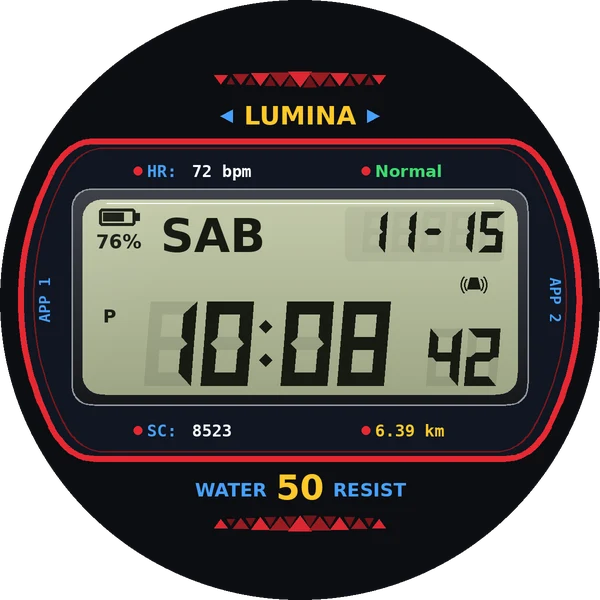
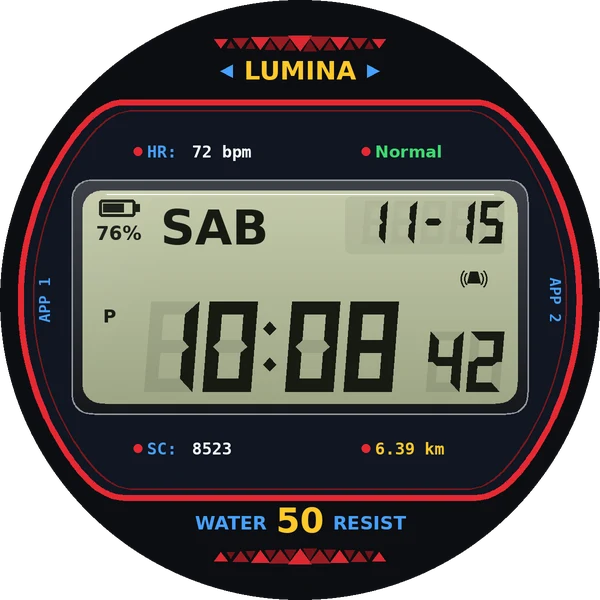
Lumina: panel más alto con costados curvos más largos; nombre arriba y WATER 50 RESIST abajo; marca y versión en Personalizar
Claude-Session: https://claude.ai/code/session_01RTdv2VrACuR4VFWJLA57hx

diff --git a/android/esferas-de-reloj/lumina/src/main/java/cl/carlospnauto/esfera/FaceService.kt b/android/esferas-de-reloj/lumina/src/main/java/cl/carlospnauto/esfera/FaceService.kt
@@ -101,10 +101,10 @@ object Config : FaceConfig {
     override val spots = listOf(
         Spot(-0.765f, 0f, Action.MEDIA, "APP 1 (izquierda)", hit = 0.12f),
         Spot(0.765f, 0f, Action.MUSIC, "APP 2 (derecha)", hit = 0.12f),
-        Spot(0f, -0.64f, Action.ALARMS, "Nombre de arriba", hit = 0.12f),
-        Spot(0f, 0.68f, Action.TIMER, "WATER 50 RESIST", hit = 0.12f),
-        Spot(-0.40f, -0.43f, Action.SETTINGS, "Ritmo cardíaco (HR)", hit = 0.10f),
-        Spot(0.40f, 0.43f, Action.BATTERY, "Distancia", hit = 0.10f),
+        Spot(0f, -0.75f, Action.ALARMS, "Nombre de arriba", hit = 0.12f),
+        Spot(0f, 0.78f, Action.TIMER, "WATER 50 RESIST", hit = 0.12f),
+        Spot(-0.40f, -0.49f, Action.SETTINGS, "Ritmo cardíaco (HR)", hit = 0.10f),
+        Spot(0.40f, 0.50f, Action.BATTERY, "Distancia", hit = 0.10f),
     )
     override val choices = listOf(SCREEN, THEME, SECONDS, DISTANCE, AMB, PhoneNow.CHOICE)
     override val heartRate = true
@@ -116,11 +116,11 @@ class FaceService : WatchFaceService() {
         val factory = CanvasComplicationFactory { watchState, listener -> CanvasComplicationDrawable(ComplicationDrawable(this), watchState, listener) }
         val types = listOf(ComplicationType.SHORT_TEXT, ComplicationType.RANGED_VALUE)
         val slots = listOf(
-            ComplicationSlot.createRoundRectComplicationSlotBuilder(HEART, factory, types, DefaultComplicationDataSourcePolicy(), ComplicationSlotBounds(RectF(0.20f, 0.25f, 0.45f, 0.32f))).build(),
+            ComplicationSlot.createRoundRectComplicationSlotBuilder(HEART, factory, types, DefaultComplicationDataSourcePolicy(), ComplicationSlotBounds(RectF(0.20f, 0.22f, 0.45f, 0.29f))).build(),
             ComplicationSlot.createRoundRectComplicationSlotBuilder(
                 STEPS, factory, types,
                 DefaultComplicationDataSourcePolicy(SystemDataSources.DATA_SOURCE_STEP_COUNT, ComplicationType.SHORT_TEXT),
-                ComplicationSlotBounds(RectF(0.20f, 0.68f, 0.45f, 0.75f)),
+                ComplicationSlotBounds(RectF(0.20f, 0.71f, 0.45f, 0.78f)),
             ).build(),
         )
         return ComplicationSlotsManager(slots, currentUserStyleRepository)
@@ -230,7 +230,7 @@ class LuminaRenderer(
         val r = min(b.width(), b.height()) / 2f
         val fx = (x - b.exactCenterX()) / r
         val fy = (y - b.exactCenterY()) / r
-        return fx in -0.76f..0.76f && fy in -0.37f..0.35f
+        return fx in -0.76f..0.76f && fy in -0.40f..0.38f
     }
 
     private fun a(c: Int, alpha: Int) = Color.argb(alpha, Color.red(c), Color.green(c), Color.blue(c))
@@ -290,8 +290,8 @@ class LuminaRenderer(
         fun X(v: Float) = cx + v * rr
         fun Y(v: Float) = cy + v * rr
         val side = 0.93f
-        val edge = 0.53f
-        val sy = 0.42f
+        val edge = 0.66f
+        val sy = 0.52f
         val ang = Math.toDegrees(kotlin.math.asin((sy / side).toDouble())).toFloat()
         val sx = kotlin.math.sqrt(side * side - sy * sy)
         // Esquina: la recta y la tangente del círculo se cruzan en (cxk, edge)
@@ -363,7 +363,7 @@ class LuminaRenderer(
         canvas.drawColor(Color.BLACK)
 
         // Bisel (marco) de la pantalla y, adentro, la pantalla bajo el cristal
-        val bezel = RectF(X(-0.76f), Y(-0.37f), X(0.76f), Y(0.35f))
+        val bezel = RectF(X(-0.76f), Y(-0.40f), X(0.76f), Y(0.38f))
         val lcd = RectF(bezel.left + r * 0.035f, bezel.top + r * 0.035f, bezel.right - r * 0.035f, bezel.bottom - r * 0.035f)
         val ink = if (simple) Color.rgb(170, 170, 170) else sc.ink
         val ghost = if (simple) 0 else a(sc.ink, if (sc.dark) 30 else 26)
@@ -375,16 +375,16 @@ class LuminaRenderer(
             fill.shader = null
 
             // Triángulos y nombre arriba (rectos, como en la foto)
-            chevrons(canvas, cx, Y(-0.735f), r, th.chevron, top = true)
+            chevrons(canvas, cx, Y(-0.855f), r, th.chevron, top = true)
             val brand = "LUMINA"
             val bs = r * 0.085f
             val bw = width(brand, bs, bold)
-            write(canvas, brand, cx, Y(-0.585f), bs, th.brand, bold, Paint.Align.CENTER, -0.2f)
+            write(canvas, brand, cx, Y(-0.735f), bs, th.brand, bold, Paint.Align.CENTER, -0.2f)
             fill.color = th.label
             for (side in listOf(-1f, 1f)) {
                 val ax = cx + side * (bw / 2 + r * 0.05f)
                 path.reset()
-                path.moveTo(ax + side * r * 0.03f, Y(-0.613f)); path.lineTo(ax - side * r * 0.012f, Y(-0.635f)); path.lineTo(ax - side * r * 0.012f, Y(-0.591f))
+                path.moveTo(ax + side * r * 0.03f, Y(-0.763f)); path.lineTo(ax - side * r * 0.012f, Y(-0.785f)); path.lineTo(ax - side * r * 0.012f, Y(-0.741f))
                 path.close()
                 canvas.drawPath(path, fill)
             }
@@ -415,9 +415,9 @@ class LuminaRenderer(
             val hr = hrTxt?.toIntOrNull() ?: 0
             val ls = r * 0.056f
             fill.color = th.frame
-            canvas.drawCircle(X(-0.54f), Y(-0.43f), r * 0.014f, fill)
-            write(canvas, "HR:", X(-0.51f), Y(-0.41f), ls, th.label, mono, Paint.Align.LEFT)
-            write(canvas, "${hrTxt ?: "--"} bpm", X(-0.36f), Y(-0.41f), ls, th.value, mono, Paint.Align.LEFT)
+            canvas.drawCircle(X(-0.54f), Y(-0.495f), r * 0.014f, fill)
+            write(canvas, "HR:", X(-0.51f), Y(-0.475f), ls, th.label, mono, Paint.Align.LEFT)
+            write(canvas, "${hrTxt ?: "--"} bpm", X(-0.36f), Y(-0.475f), ls, th.value, mono, Paint.Align.LEFT)
             val status = when {
                 hr <= 0 -> "--"
                 hr < 60 -> "Bajo"
@@ -425,26 +425,26 @@ class LuminaRenderer(
                 else -> "Alto"
             }
             val stColor = when (status) { "Normal" -> Color.rgb(60, 220, 110); "Bajo" -> Color.rgb(90, 180, 255); "Alto" -> Color.rgb(255, 90, 80); else -> Color.GRAY }
-            canvas.drawCircle(X(0.22f), Y(-0.43f), r * 0.014f, fill)
-            write(canvas, status, X(0.25f), Y(-0.41f), ls, stColor, bold, Paint.Align.LEFT)
+            canvas.drawCircle(X(0.22f), Y(-0.495f), r * 0.014f, fill)
+            write(canvas, status, X(0.25f), Y(-0.475f), ls, stColor, bold, Paint.Align.LEFT)
 
             // Pasos y distancia
             val stepsTxt = complications.textOf(STEPS, context.resources)?.filter { it.isDigit() } ?: ""
             val steps = stepsTxt.toLongOrNull() ?: 0L
             val km = steps * 0.00075
             val dist = if (Choices.value(context, DISTANCE) == 1) "%.2f mi".format(loc, km * 0.621371) else "%.2f km".format(loc, km)
-            canvas.drawCircle(X(-0.54f), Y(0.435f), r * 0.014f, fill)
-            write(canvas, "SC:", X(-0.51f), Y(0.455f), ls, th.label, mono, Paint.Align.LEFT)
-            write(canvas, stepsTxt.ifEmpty { "--" }, X(-0.36f), Y(0.455f), ls, th.value, mono, Paint.Align.LEFT)
-            canvas.drawCircle(X(0.22f), Y(0.435f), r * 0.014f, fill)
-            write(canvas, dist, X(0.25f), Y(0.455f), ls, th.brand, mono, Paint.Align.LEFT)
+            canvas.drawCircle(X(-0.54f), Y(0.495f), r * 0.014f, fill)
+            write(canvas, "SC:", X(-0.51f), Y(0.515f), ls, th.label, mono, Paint.Align.LEFT)
+            write(canvas, stepsTxt.ifEmpty { "--" }, X(-0.36f), Y(0.515f), ls, th.value, mono, Paint.Align.LEFT)
+            canvas.drawCircle(X(0.22f), Y(0.495f), r * 0.014f, fill)
+            write(canvas, dist, X(0.25f), Y(0.515f), ls, th.brand, mono, Paint.Align.LEFT)
 
             // WATER 50 RESIST y triángulos abajo (rectos)
             val ws = r * 0.062f
-            write(canvas, "WATER", X(-0.11f), Y(0.655f), ws, th.label, bold, Paint.Align.RIGHT, -0.2f)
-            write(canvas, "50", cx, Y(0.665f), r * 0.115f, th.brand, black, Paint.Align.CENTER, -0.3f)
-            write(canvas, "RESIST", X(0.11f), Y(0.655f), ws, th.label, bold, Paint.Align.LEFT, -0.2f)
-            chevrons(canvas, cx, Y(0.745f), r, th.chevron, top = false)
+            write(canvas, "WATER", X(-0.11f), Y(0.765f), ws, th.label, bold, Paint.Align.RIGHT, -0.2f)
+            write(canvas, "50", cx, Y(0.775f), r * 0.115f, th.brand, black, Paint.Align.CENTER, -0.3f)
+            write(canvas, "RESIST", X(0.11f), Y(0.765f), ws, th.label, bold, Paint.Align.LEFT, -0.2f)
+            chevrons(canvas, cx, Y(0.855f), r, th.chevron, top = false)
 
             // Bisel: marco metálico oscuro alrededor de la pantalla, con un filo de luz arriba
             screenPath(bezel, r)
@@ -485,36 +485,36 @@ class LuminaRenderer(
         val pct = battery?.getIntProperty(BatteryManager.BATTERY_PROPERTY_CAPACITY) ?: -1
         if (!simple) {
             val bx = X(-0.67f)
-            val by = Y(-0.305f)
+            val by = Y(-0.335f)
             stroke.color = ink
             stroke.strokeWidth = r * 0.011f
             canvas.drawRoundRect(RectF(bx, by, bx + r * 0.12f, by + r * 0.056f), r * 0.01f, r * 0.01f, stroke)
             fill.color = ink
             canvas.drawRect(bx + r * 0.12f, by + r * 0.016f, bx + r * 0.135f, by + r * 0.04f, fill)
             if (pct >= 0) canvas.drawRect(bx + r * 0.014f, by + r * 0.014f, bx + r * 0.014f + r * 0.092f * pct / 100f, by + r * 0.042f, fill)
-            write(canvas, if (pct >= 0) "$pct%" else "--", bx + r * 0.065f, Y(-0.172f), r * 0.064f, ink, bold, Paint.Align.CENTER)
+            write(canvas, if (pct >= 0) "$pct%" else "--", bx + r * 0.065f, Y(-0.20f), r * 0.064f, ink, bold, Paint.Align.CENTER)
         }
 
         // Día de la semana grande
         val dow = t.dayOfWeek.getDisplayName(TextStyle.SHORT, loc).replace(".", "").take(3).uppercase(loc)
-        write(canvas, dow, X(-0.465f), Y(-0.16f), r * 0.155f, ink, black, Paint.Align.LEFT)
+        write(canvas, dow, X(-0.465f), Y(-0.185f), r * 0.16f, ink, black, Paint.Align.LEFT)
 
         // Fecha (mes-día) en su cajita, con «8» apagados
         if (!simple) {
             fill.color = a(sc.ink, if (sc.dark) 22 else 16)
-            canvas.drawRoundRect(RectF(X(0.15f), Y(-0.31f), X(0.68f), Y(-0.13f)), r * 0.02f, r * 0.02f, fill)
+            canvas.drawRoundRect(RectF(X(0.15f), Y(-0.345f), X(0.68f), Y(-0.155f)), r * 0.02f, r * 0.02f, fill)
         }
-        Lcd.row(canvas, "${t.monthValue}-${t.dayOfMonth}", X(0.67f), Y(-0.295f), r * 0.075f, r * 0.135f, r * 0.022f, 5, ink, ghost)
+        Lcd.row(canvas, "${t.monthValue}-${t.dayOfMonth}", X(0.67f), Y(-0.33f), r * 0.075f, r * 0.14f, r * 0.022f, 5, ink, ghost)
 
         // Alarma puesta: campana con ondas
-        if (!simple) bell(canvas, X(0.58f), Y(-0.05f), r * 0.04f, if (Indicators.alarm(context)) ink else ghost)
+        if (!simple) bell(canvas, X(0.58f), Y(-0.07f), r * 0.04f, if (Indicators.alarm(context)) ink else ghost)
 
         // Hora grande, segundos e indicador P / 24
         val is24 = DateFormat.is24HourFormat(context)
         val h = if (is24) "%02d".format(t.hour) else (if (t.hour % 12 == 0) 12 else t.hour % 12).toString().padStart(2, ' ')
         val m = "%02d".format(t.minute)
-        val dw = r * 0.155f
-        val dh = r * 0.28f
+        val dw = r * 0.16f
+        val dh = r * 0.30f
         val top = Y(0.005f)
         var x = X(-0.52f)
         Lcd.digit(canvas, h[0], x, top, dw, dh, ink, ghost); x += dw * 1.22f
@@ -524,8 +524,8 @@ class LuminaRenderer(
         Lcd.digit(canvas, m[1], x, top, dw, dh, ink, ghost)
         if (!ambient && Choices.value(context, SECONDS) == 0) {
             val s = "%02d".format(t.second)
-            val sw = r * 0.105f
-            val sh = r * 0.19f
+            val sw = r * 0.11f
+            val sh = r * 0.20f
             Lcd.digit(canvas, s[0], X(0.42f), top + dh - sh, sw, sh, ink, ghost)
             Lcd.digit(canvas, s[1], X(0.42f) + sw * 1.22f, top + dh - sh, sw, sh, ink, ghost)
         }
@@ -549,7 +549,7 @@ class LuminaRenderer(
             canvas.drawLine(lcd.left + r * 0.08f, lcd.top + r * 0.012f, lcd.right - r * 0.08f, lcd.top + r * 0.012f, stroke)
         }
 
-        Brand.draw(canvas, cx, Y(0.90f), r * 0.028f, Color.rgb(110, 110, 115))
+        // La marca va en Personalizar (debajo de la versión), no en la esfera
         // Siempre activa: la esfera completa, más tenue
         if (ambient && !simple) canvas.drawColor(Color.argb(165, 0, 0, 0))
     }

diff --git a/android/esferas-comun/src/main/java/cl/carlospnauto/esfera/comun/BaseEditorActivity.kt b/android/esferas-comun/src/main/java/cl/carlospnauto/esfera/comun/BaseEditorActivity.kt
@@ -226,13 +226,21 @@ abstract class BaseEditorActivity : ComponentActivity() {
             setPadding(0, dp(10f).toInt(), 0, dp(10f).toInt())
             setOnClickListener { finish() }
         }, LinearLayout.LayoutParams(ViewGroup.LayoutParams.MATCH_PARENT, ViewGroup.LayoutParams.WRAP_CONTENT).apply { topMargin = dp(14f).toInt() })
+        // Versión de la esfera y, debajo, la marca (sutil)
+        col.addView(TextView(this).apply {
+            text = "Versión " + (runCatching { packageManager.getPackageInfo(packageName, 0).versionName }.getOrNull() ?: "?")
+            textSize = 10f
+            gravity = Gravity.CENTER
+            setTextColor(Color.rgb(140, 140, 140))
+            setPadding(0, dp(10f).toInt(), 0, 0)
+        })
         col.addView(TextView(this).apply {
             text = Brand.NAME
-            textSize = 9f
+            textSize = 8f
             letterSpacing = 0.12f
             gravity = Gravity.CENTER
-            setTextColor(Color.rgb(110, 110, 110))
-            setPadding(0, dp(10f).toInt(), 0, 0)
+            setTextColor(Color.rgb(90, 90, 90))
+            setPadding(0, dp(2f).toInt(), 0, 0)
         })
 
         scroll.removeAllViews()
